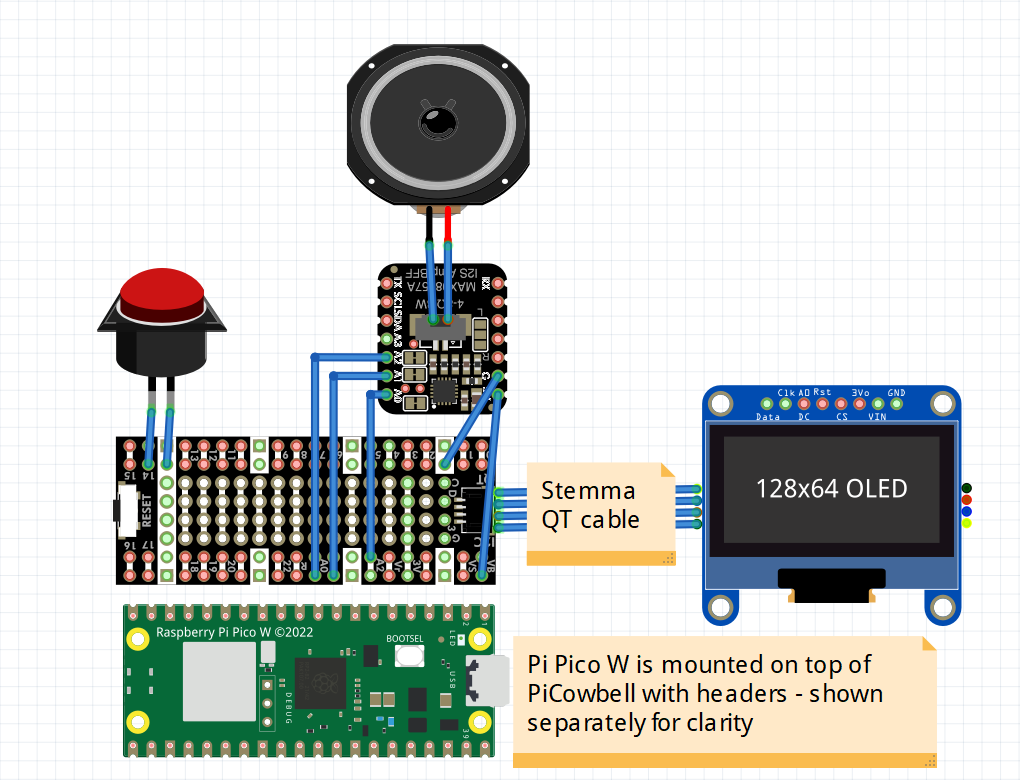
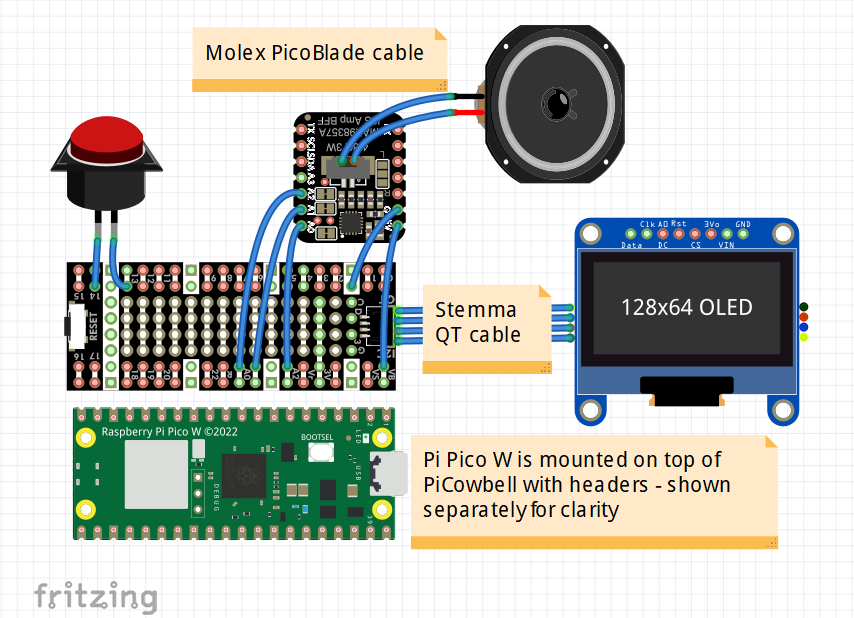
asentry project page - wip

diff --git a/site-files/projects/asentry/index.html b/site-files/projects/asentry/index.html
@@ -32,16 +32,30 @@
 <a href="https://www.raspberrypi.com/documentation/microcontrollers/raspberry-pi-pico.html#raspberry-pi-pico-w-and-pico-wh">Raspberry Pi Pico W</a>
 and <a href="https://circuitpython.org/">CircuitPython</a>
 to monitor NASA JPL’s <a href="https://cneos.jpl.nasa.gov/sentry/">Sentry</a> service
-and warn of potential Earth-threatening asteroids.</p>
+and warn of potential Earth-threatening asteroids. Know when to panic!
+<no-wrap>🌎🌠😱</no-wrap></p>
 
-<aside><p>If you want to do this on your computer instead of a stand-alone device, there’s <a href="https://github.com/Len42/asentry">a Python program</a> for that.</p></aside>
+<p>Source files for this project are on <a href="https://github.com/Len42/asentry-gadget">GitHub</a>.</p>
 
-Source files for this project are on <a href="https://github.com/Len42/asentry-gadget">GitHub</a>.
+<p>This project is based on <a href="https://learn.adafruit.com/generating-text-with-chatgpt-pico-w-circuitpython">a project by Jeff Epler</a>.</p>
 
 <h1><a name="hardware"></a>Hardware</h1>
-<p>Blah blah.</p>
+<aside><p>If you want to do this on your computer instead of a stand-alone device, there’s <a href="https://github.com/Len42/asentry">a Python program</a> for that.</p></aside>
 
-<a href="wiring.png"><img src="wiring.png" alt="wiring diagram" width="510" height="390"></a>
+<p>The Pi Pico W connects to the internet via wifi, and it is also connected to an OLED display, an I2S audio amplifier, and a pushbutton. A PiCowbell proto board holds things together.</p>
+
+<aside><a href="wiring.png"><img src="wiring.png" alt="wiring diagram"></a></aside>
+<p>Here is a wiring diagram showing how the components are connected. Note that special cables are used for the OLED display and the speaker.</p>
+
+<p>The Pi Pico W is stacked on top of the PiCowbell board using header connectors, as shown below.</p>
+<g-row>
+<g-col><a href="picowbell1.jpg"><img src="picowbell1.jpg" alt="Pico W and PiCowbell"></a></g-col>
+<g-col><a href="picowbell2.jpg"><img src="picowbell2.jpg" alt="Pico W and PiCowbell"></a></g-col>
+</g-row>
+
+<p>TODO: headers for button & I2S</p>
+
+<p>TODO: BOM, including cables & connectors</p>
 
 <h1><a name="firmware"></a>Firmware</h1>
 <p>Blah blah.</p>
@@ -52,7 +66,9 @@ Source files for this project are on <a href="https://github.com/Len42/asentry-g
 <h2>Installing the Firmware</h2>
 <p>TODO: <a href="https://github.com/Len42/asentry-gadget/releases/latest/download/firmware.zip">firmware files</a></p>
 
-TODO: settings.toml
+<p>TODO: settings.toml</p>
+
+<p>TODO: alert.wav</p>
 
 </main>
 
